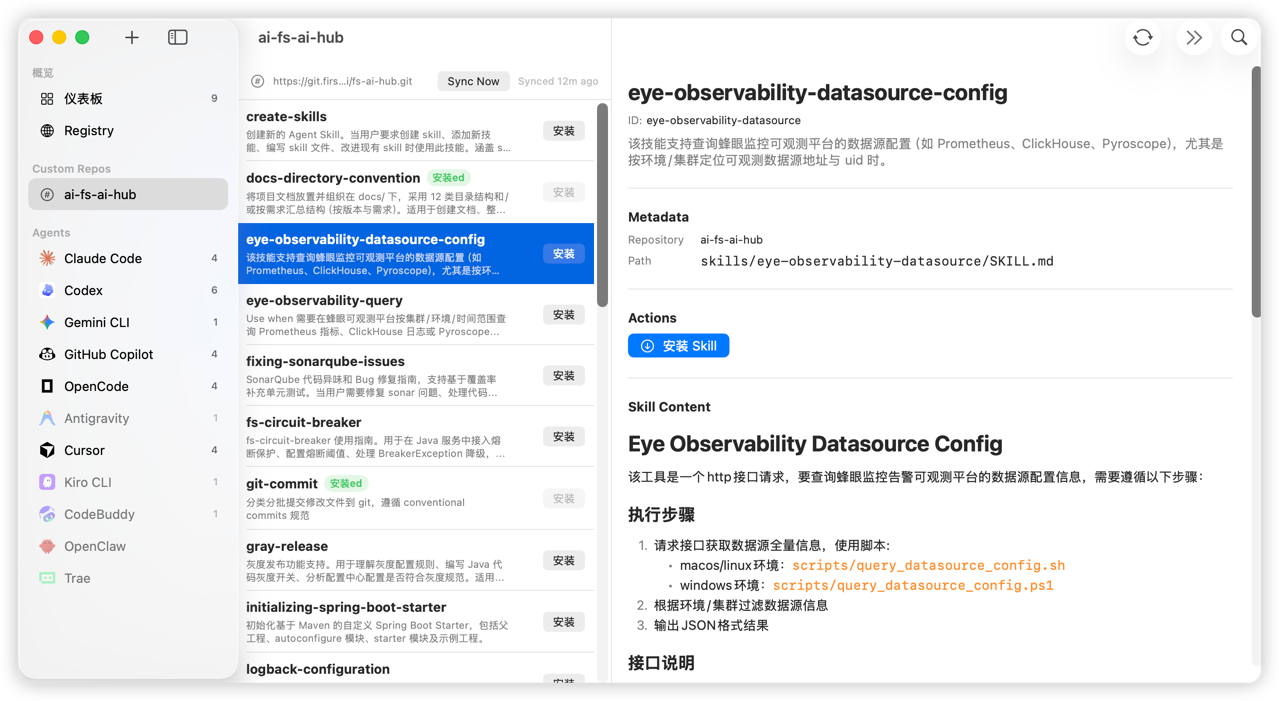
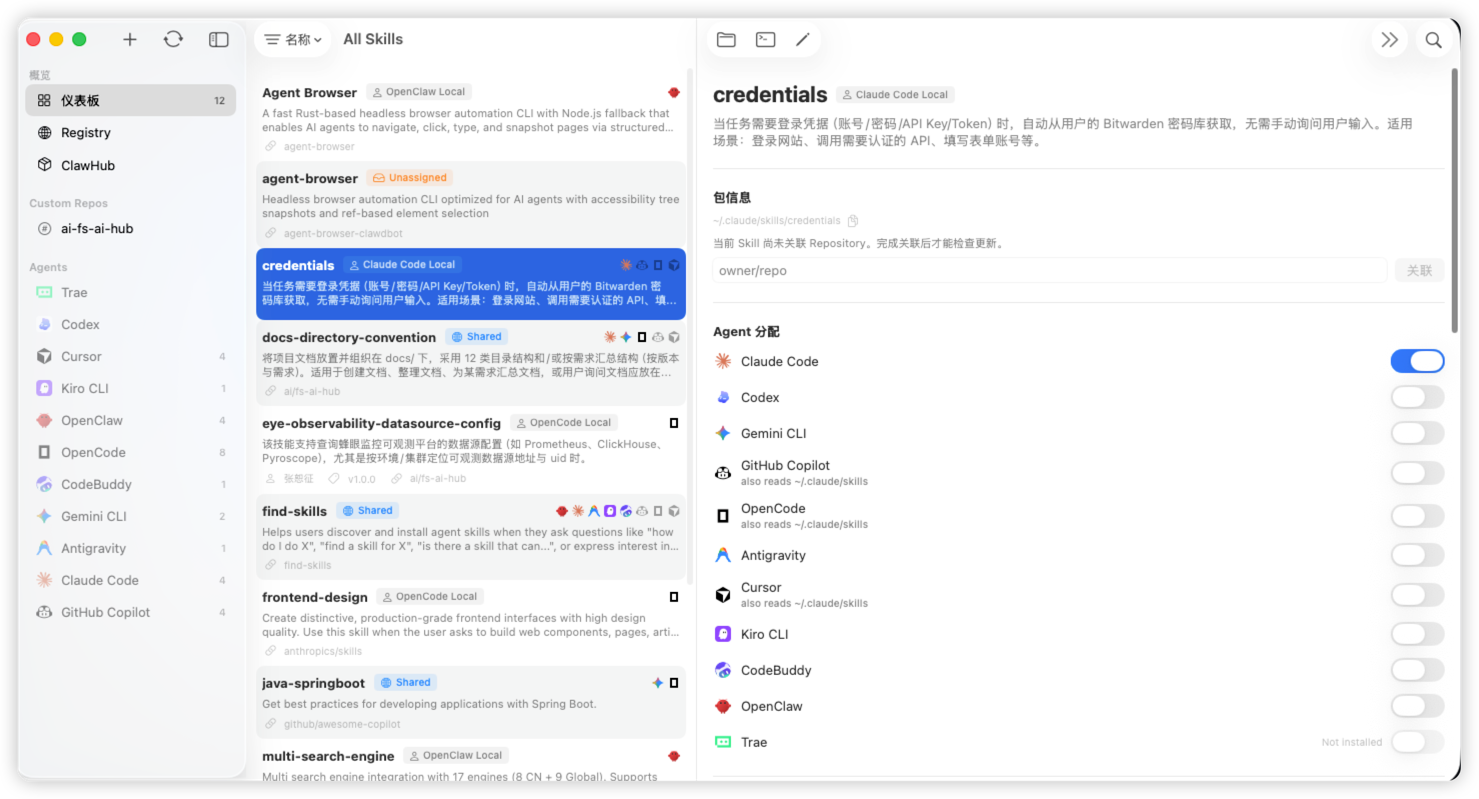
docs: refresh README and screenshots

diff --git a/README.md b/README.md
@@ -1,87 +1,176 @@
 # SkillsMaster
 
-SkillsMaster 是一个面向 macOS 的原生应用，用统一的图形界面管理多种 AI 编程代理的 Skills。它聚焦于 **扫描、展示、安装、编辑、更新、同步**，把本地目录、symbolic link / physical copy、lock file 与 Repository 来源整合成一套可维护的工作流。
+SkillsMaster 是一个面向 macOS 的原生应用，用统一的图形界面管理多种 AI 编程代理的 Skills。当前仓库围绕真实实现持续维护以下链路：本地扫描、Agent 分配、`SKILL.md` 编辑、更新检查、Registry / ClawHub / Custom Repository 安装，以及测试、打包、Release、Homebrew 分发。
+
+> 项目来源：本仓库源自 fork [crossoverJie/SkillDeck](https://github.com/crossoverJie/SkillDeck.git)，当前以 `SkillsMaster` 为产品名持续演进和维护。
 
 ## 它解决什么问题
+
 如果你同时使用多个 AI 编程代理，通常会遇到这些问题：
+
 - Skills 分散在不同目录，难以统一查看
-- `SKILL.md` 需要手动编辑，容易出错
-- symbolic link / physical copy、lock file、仓库来源难以追踪
-- 想检查更新或切换 Agent 安装状态时，缺少统一入口
+- `SKILL.md` 需要手工维护，Frontmatter 和 Markdown 容易出错
+- symbolic link / physical copy、lock file、来源仓库和更新状态难以追踪
+- 不同 Agent 之间存在继承读取规则，是否“真的安装到该 Agent”不容易判断
+- 想从 Registry、GitHub 仓库、ClawHub 或自定义仓库安装 Skill 时，缺少统一入口
 
-SkillsMaster 的目标，就是把这些分散的本地操作整合到一个清晰的 macOS UI 里完成。
+SkillsMaster 的目标，是把这些分散在文件系统、命令行和配置文件里的操作，收敛到一个原生 macOS UI 里完成。
 
-## 核心能力
-- 统一扫描本地 Skills，并按 Agent、作用域、安装状态集中展示
-- 解析并编辑 `SKILL.md`，支持 YAML frontmatter + Markdown 正文
-- 从 GitHub、Registry 与 Custom Repository 安装 Skills
-- 集成 ClawHub 浏览与安装（面向 OpenClaw）
-- Registry / ClawHub 列表支持触底自动加载更多，并显示底部加载状态
-- 管理 Agent 分配、每个 Agent 的默认安装方式（symbolic link / physical copy）、lock file 与更新检查
-- 监听文件系统变化，在 UI 中自动刷新
-- 支持主题切换、应用版本检查与 Release 打包链路
+## 当前已实现
 
-## 适用人群
-- 同时使用 Claude Code、Codex、Gemini CLI、GitHub Copilot、Cursor、OpenCode 等多个 Agent 的开发者
-- 希望通过 GUI 管理本地 Skills，而不是频繁手改目录和配置文件的用户
-- 需要追踪 Skill 来源、更新状态与安装归属的维护者
+- 自动检测本机 Agent，并扫描 `~/.skillsmaster/skills`、各 Agent 目录以及兼容目录中的 Skills
+- 统一展示 direct install 与 inherited install，并支持按 Agent 过滤查看
+- Dashboard 支持搜索、排序、删除，以及在 Finder / Terminal 中打开 Skill
+- 详情页支持查看 Frontmatter、Markdown 正文、lock file 信息和更新状态
+- 内置 `SKILL.md` 编辑器，可编辑 YAML frontmatter 与正文内容并保存回本地
+- 可为每个 Agent 单独设置默认安装方式：`symbolic link` 或 `physical copy`
+- 从 GitHub 仓库扫描并安装 Skills，安装后落到 canonical 目录并写入 lock file
+- 浏览并安装 `skills.sh` Registry 中的 Skills
+- 浏览 ClawHub marketplace，查看详情、读取 `SKILL.md`，并安装到 OpenClaw
+- 管理 GitHub / GitLab Custom Repository，支持 `SSH` 和 `HTTPS + Token`
+- Custom Repository 支持 clone / pull、轻量索引缓存、按需加载详情和本地安装
+- 支持为未记录来源的本地 Skill 手动关联 Repository，随后执行更新检查
+- 支持批量检查 Git 来源 Skill 更新，并记录本地 / 远端 commit hash
+- 启动时执行从 `~/.agents` 到 `~/.skillsmaster` 的迁移，并保留对旧兼容路径的读取
+- 文件系统变化会触发自动刷新，尽量让 UI 与磁盘状态保持同步
+- 支持主题切换、应用版本检查、自更新入口、测试、打包、GitHub Release 和 Homebrew cask 链路
+
+## 支持的 Agents
+
+当前代码中已支持以下 Agent 类型：
+
+- Claude Code
+- Codex
+- Gemini CLI
+- GitHub Copilot
+- OpenCode
+- Antigravity
+- Cursor
+- Kiro CLI
+- CodeBuddy
+- OpenClaw
+- Trae
+
+## 来源与存储约定
+
+- canonical Skills 目录：`~/.skillsmaster/skills`
+- lock file：`~/.agents/.skill-lock.json`
+- Custom Repository clone / cache 目录：`~/.skillsmaster/repos`
+- Custom Repository 配置：`~/.skillsmaster/.skillsmaster-repos.json`
+
+需要注意的用户可见约定：
+
+- `~/.skillsmaster/skills` 是 SkillsMaster 维护的事实源目录
+- Agent 目录中的 direct install 会按默认安装方式落为 symbolic link 或 physical copy
+- `~/.agents/.skill-lock.json` 仍保留在旧位置，以兼容外部工具
+- Custom Repository 的本地 clone 目录是 SkillsMaster 管理的 cache，不是推荐的手工编辑工作区
+- 当前 ClawHub 入口明确面向 OpenClaw，不是面向所有 Agent 的通用 marketplace 安装入口
+
+## 当前边界
+
+以下方向在当前仓库中还没有完整交付，不应当视为已支持：
+
+- Project-level Skills 管理
+- Create Skill Wizard / 模板化创建流程
+- 更深入的批量操作能力
+- 完整的签名、公证、DMG 分发体验
 
 ## 环境要求
+
 - macOS 14+
 - Xcode 15+
 - Swift 5.9+
 
 ## 快速开始
+
 ### 从源码运行
+
 ```bash
-git clone <your-repo-url>
+git clone https://github.com/zhls-ayl/SkillsMaster.git
 cd SkillsMaster
 ./run
 ```
 
 ### 运行测试
+
 ```bash
 ./run test
 ```
 
 ### 打包应用
+
 ```bash
 ./run package --version 1.2.3 --zip
 ```
 
-### 常用统一入口
+### 发布版本
+
+```bash
+./run release v1.2.3
+```
+
+## 常用命令
+
+`./run` 是仓库统一入口。无参数时默认等价于 `./run dev`，并会把 Swift / clang module cache 固定到仓库内 `.build/`，降低路径迁移和系统缓存造成的问题。
+
 ```bash
 ./run help
 ./run dev
 ./run test --filter SkillMDParserTests
 ./run build -c release
+./run clean
 ./run package --version 1.2.3 --zip
 ./run release v1.2.3
 ```
 
-`./run` 现在是仓库统一入口：
-- 无参数时默认等价于 `./run dev`
-- `test` / `build` 透传到 `swift test` / `swift build`
-- `package` / `release` 透传到 `scripts/package-app.sh` / `scripts/release.sh`
-- 现有 `scripts/*.sh` 仍保留，便于 CI、workflow 或单独调试时直接调用
+## 界面预览
+
+### Custom Repository
+
+[![SkillsMaster Custom Repository](docs/screenshots/skill-detail.png)](https://raw.githubusercontent.com/zhls-ayl/SkillsMaster/main/docs/screenshots/skill-detail.png)
+
+### Agent 默认安装方式设置
+
+[![SkillsMaster Agent 默认安装方式设置](docs/screenshots/agent-setting.png)](https://raw.githubusercontent.com/zhls-ayl/SkillsMaster/main/docs/screenshots/agent-setting.png)
+
+### Dashboard
+
+[![SkillsMaster Dashboard](docs/screenshots/dashboard.png)](https://raw.githubusercontent.com/zhls-ayl/SkillsMaster/main/docs/screenshots/dashboard.png)
+
+### Registry 浏览页
+
+[![SkillsMaster Registry 浏览页](docs/screenshots/registry-browser.png)](https://raw.githubusercontent.com/zhls-ayl/SkillsMaster/main/docs/screenshots/registry-browser.png)
+
+### ClawHub 浏览页
+
+[![SkillsMaster ClawHub 浏览页](docs/screenshots/clawhub-browser.png)](https://raw.githubusercontent.com/zhls-ayl/SkillsMaster/main/docs/screenshots/clawhub-browser.png)
+
+### Repository 设置页
+
+[![SkillsMaster Repository 设置页](docs/screenshots/repository-settings.png)](https://raw.githubusercontent.com/zhls-ayl/SkillsMaster/main/docs/screenshots/repository-settings.png)
+
+### `SKILL.md` 编辑器
+
+[![SkillsMaster SKILL.md 编辑器](docs/screenshots/skill-editor.png)](https://raw.githubusercontent.com/zhls-ayl/SkillsMaster/main/docs/screenshots/skill-editor.png)
+
+## 文档入口
+
+- [`README.md`](README.md)：项目概览、适用人群、快速开始、界面预览
+- [`docs/Index.md`](docs/Index.md)：文档导航、阅读顺序、更新落点
+- [`AGENTS.md`](AGENTS.md)：仓库协作原则、确认边界、验证要求、高风险改动规则
+
+如果你准备继续理解实现，建议从 [`docs/architecture.md`](docs/architecture.md) 开始；如果你准备参与开发或改动发布链路，再继续阅读 [`docs/development.md`](docs/development.md) 和 [`docs/release.md`](docs/release.md)。
 
 ## 仓库结构
-- `Sources/SkillsMaster/`：应用源码
+
+- `Sources/SkillsMaster/`：SwiftUI + MVVM 应用源码
 - `Tests/SkillsMasterTests/`：单元测试
-- `scripts/`：运行、打包、Release 相关脚本
-- `docs/`：架构、开发、发布与能力边界文档
+- `scripts/`：本地运行、打包、Release 脚本
+- `docs/`：架构、开发、发布、能力边界文档
 - `.github/workflows/`：CI / Release workflow
+- `homebrew/skillsmaster.rb`：Homebrew cask 模板
 
-## 文档分工
-- `README.md`：回答“这是什么、适合谁、如何快速开始”
-- `docs/Index.md`：回答“详细文档在哪里、应该先读哪篇、改动后该更新哪篇”
-- `AGENTS.md`：回答“协作时按什么原则执行、哪些改动要先确认、如何验证与汇报”
+## 相关说明
 
-如果你准备参与开发，先读 `docs/Index.md`；如果你准备在仓库里执行修改，再读 `AGENTS.md`。
-
-## Custom Repository 说明
-- `~/.skillsmaster/repos` 是 SkillsMaster 维护的 custom repository 本地 clone / cache 目录，不是推荐的手动编辑工作区。
-- 如果你需要修改 Repository 内容，请优先在原始仓库工作区提交并通过 Sync 拉取；应用检测到本地 clone 有未提交改动时，会跳过扫描缓存以避免显示过期索引。
-
-## 界面预览
-![SkillsMaster 界面截图](docs/screenshots/skill-detail.png)
+- 单元测试当前覆盖 parser、Git、lock file、symlink、repository cache、ViewModel 等关键模块
+- 修改用户可见行为、路径约定、脚本入口或发布方式时，应同步更新 `README.md`、相关专题文档和必要测试
